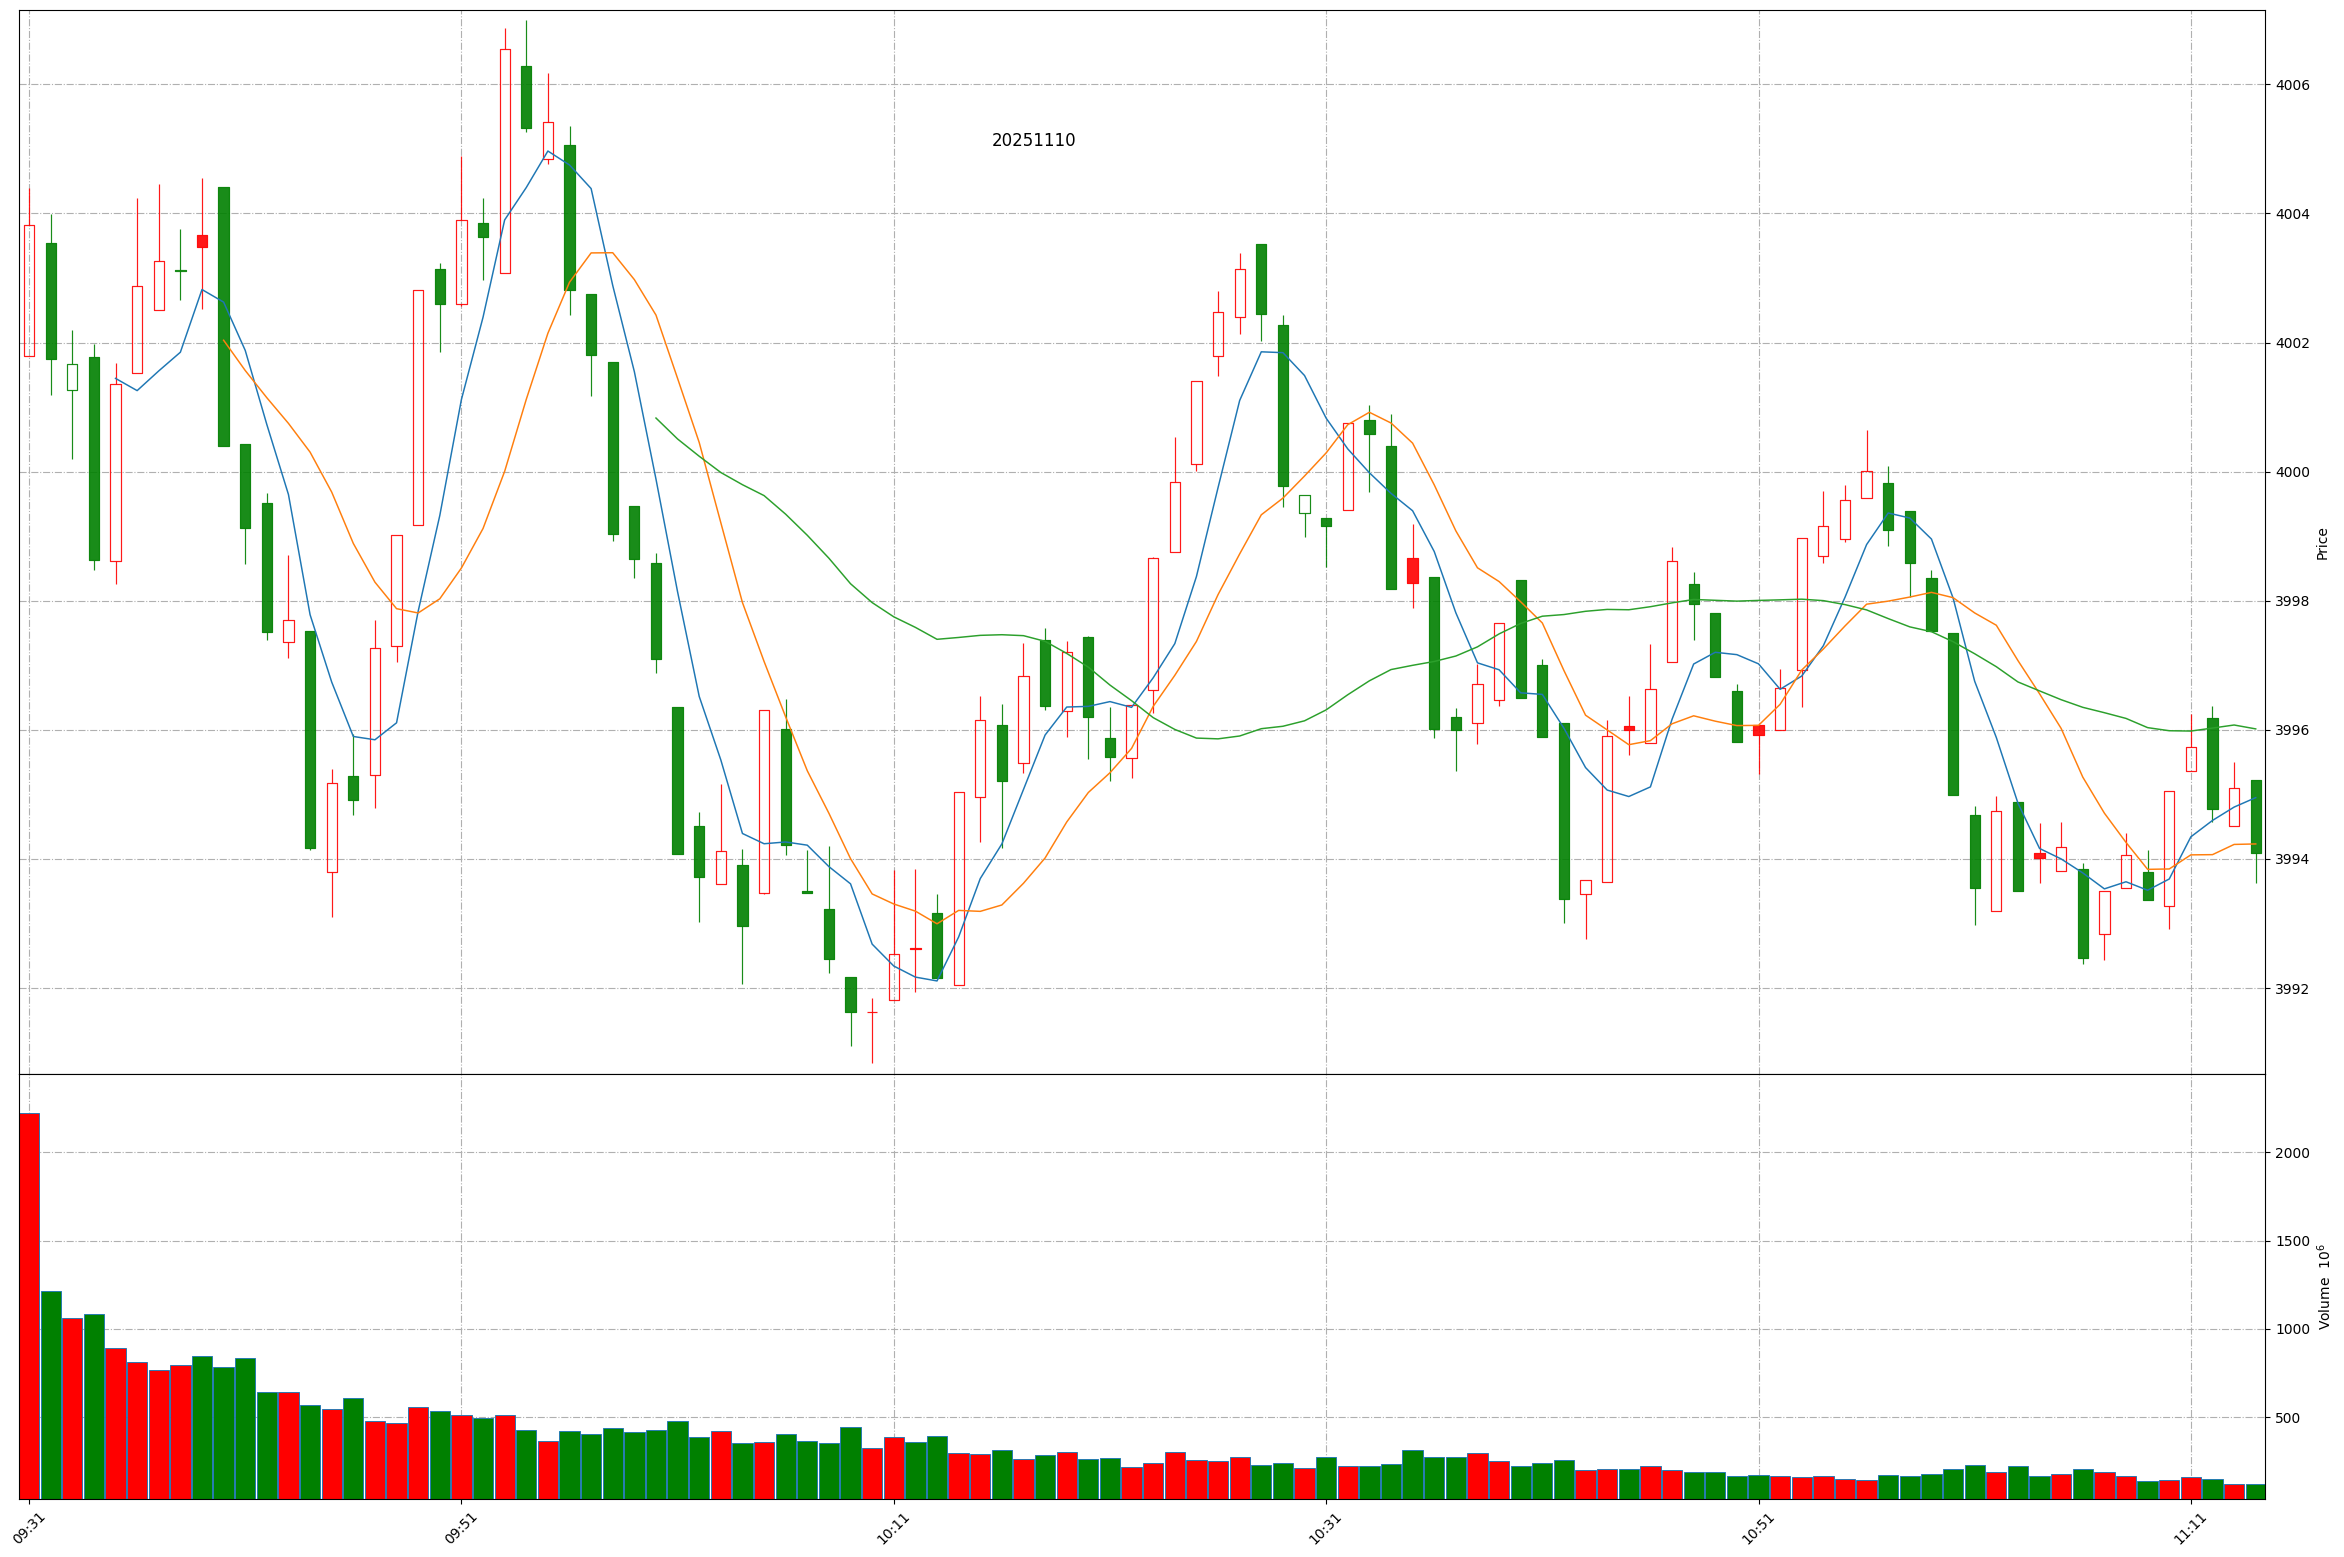
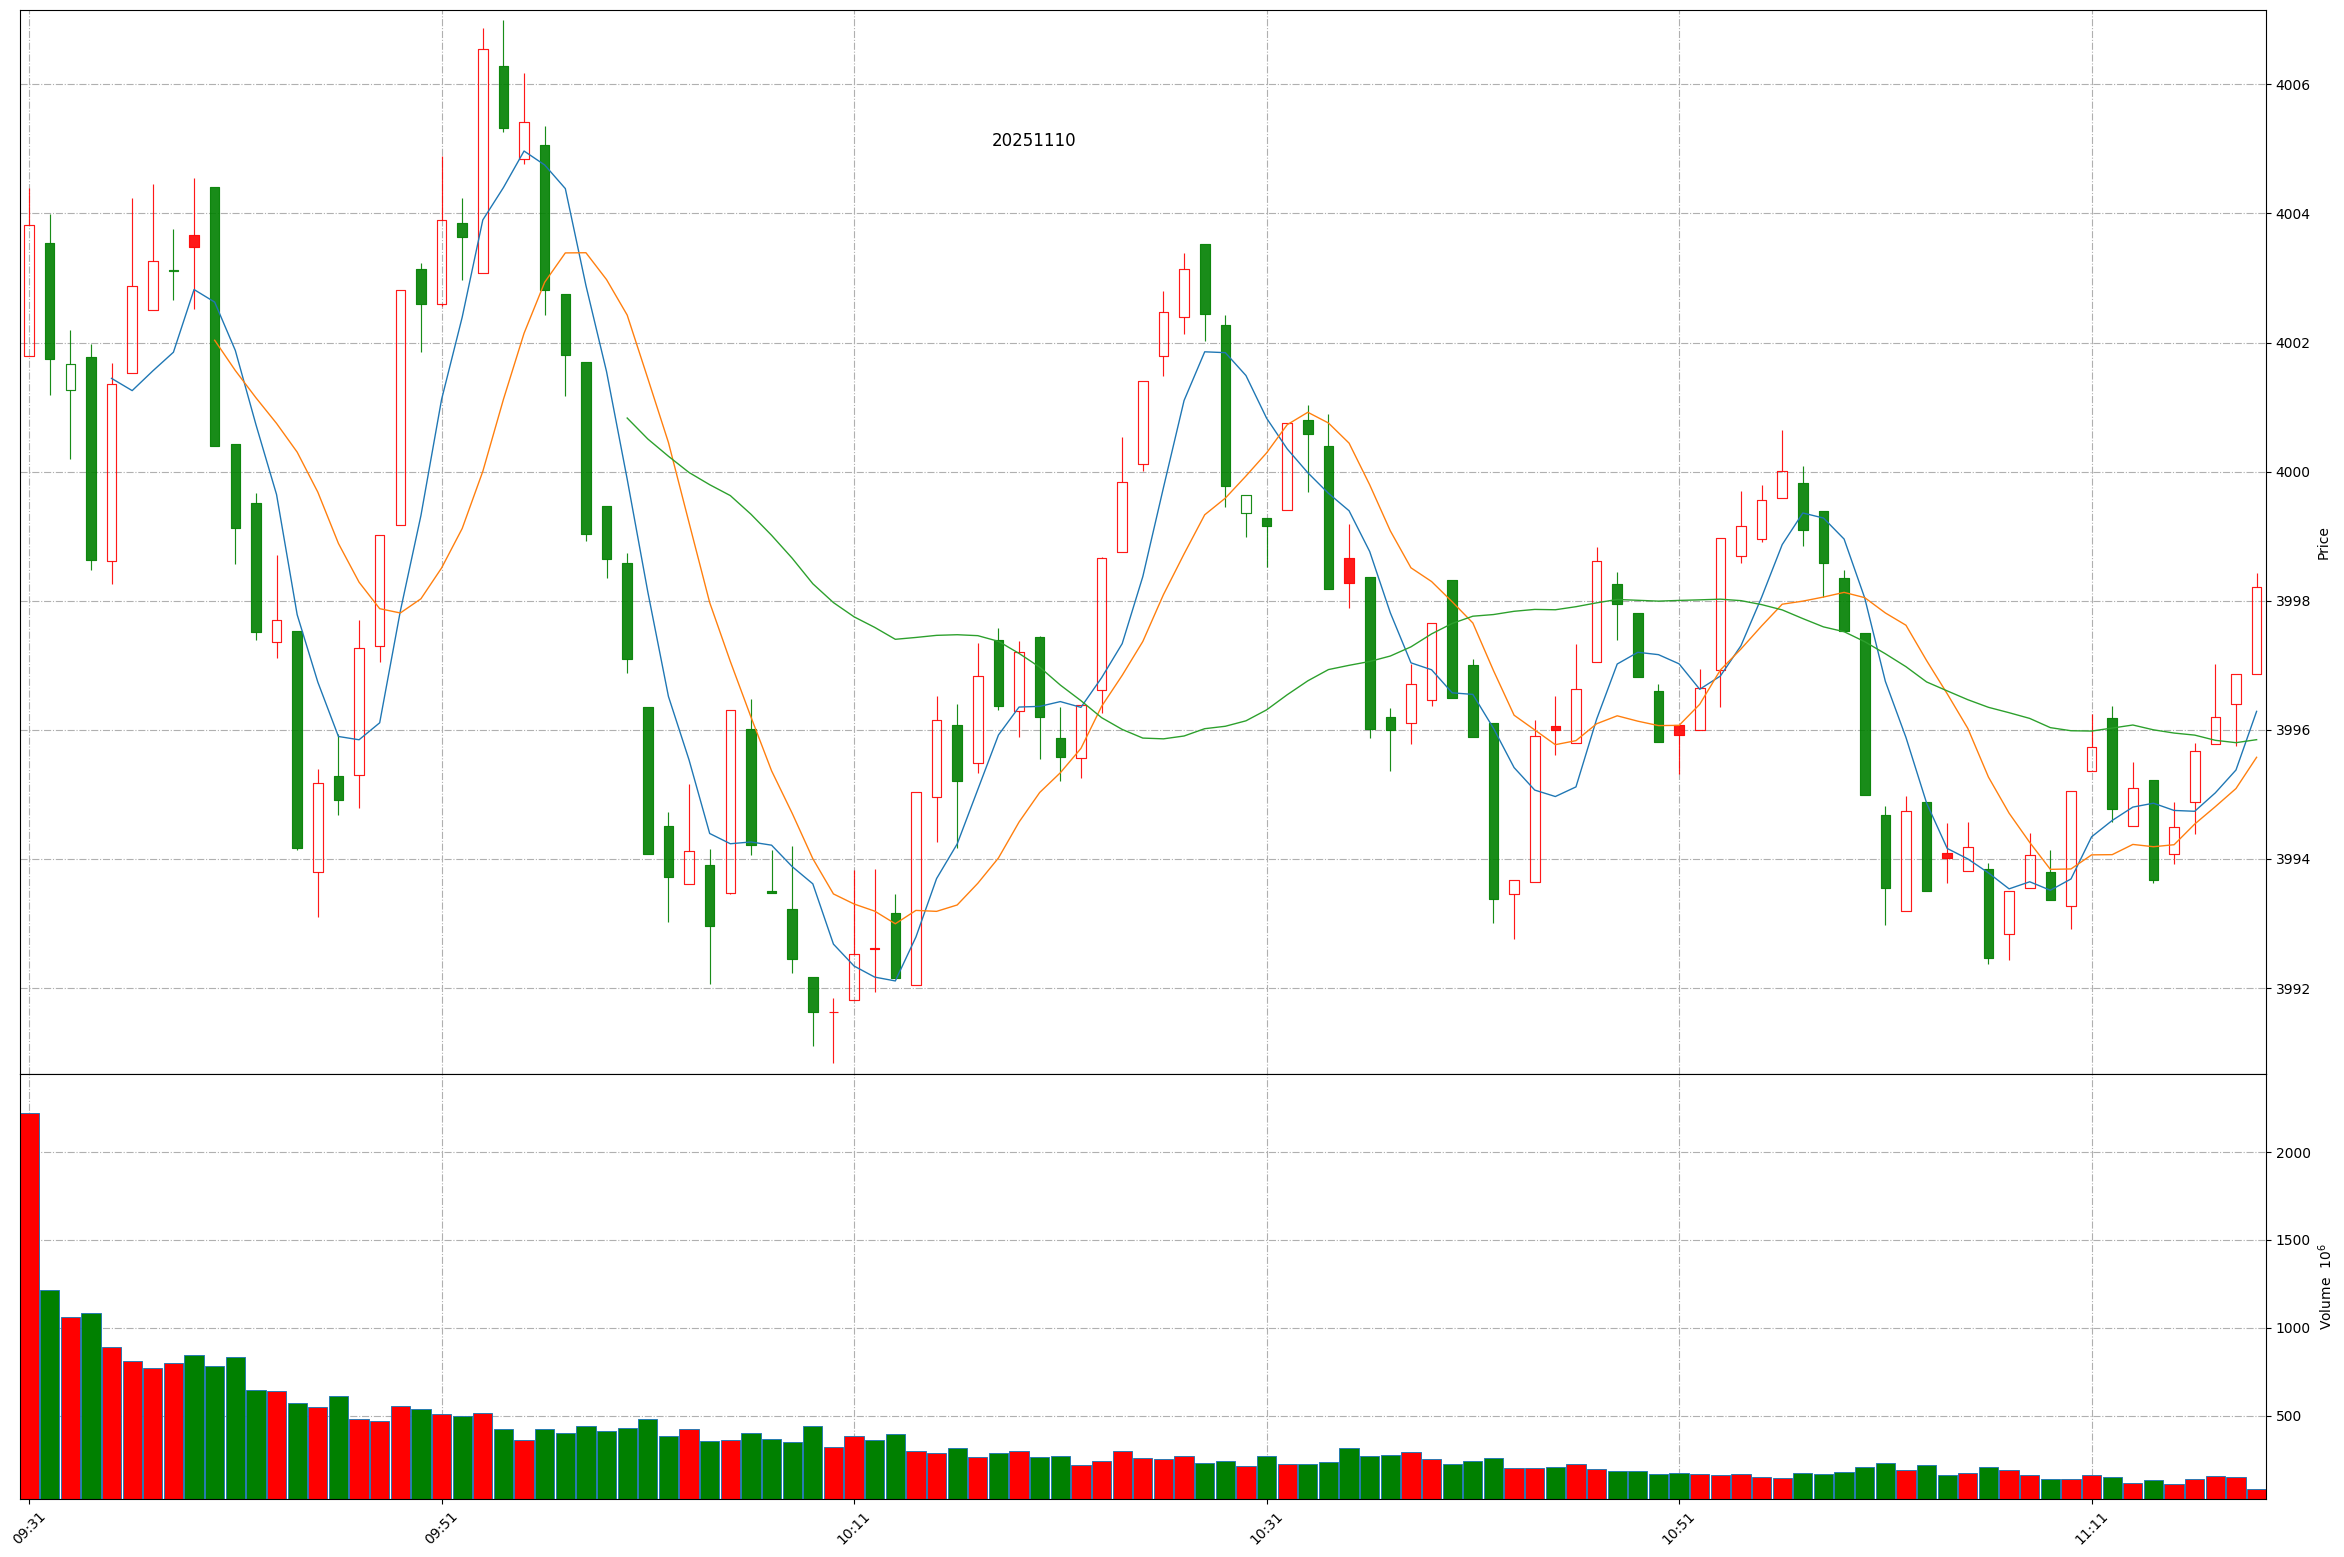
Github action update at 2025-11-10 11:18:40.

diff --git a/README.md b/README.md
@@ -1,11 +1,11 @@
 
 # Daily-A-share-market-quotes 每日 A 股指数（5min 更新）- 20251110
 
-### 上证指数 20251110 11:14
+### 上证指数 20251110 11:18
 ![](./fig/2025/11/20251110-sh000001.png)
 
-### 深证成指 20251110 11:14
+### 深证成指 20251110 11:18
 ![](./fig/2025/11/20251110-sz399001.png)
 
-### 北证50 20251110 11:14
+### 北证50 20251110 11:18
 ![](./fig/2025/11/20251110-bj899050.png)
